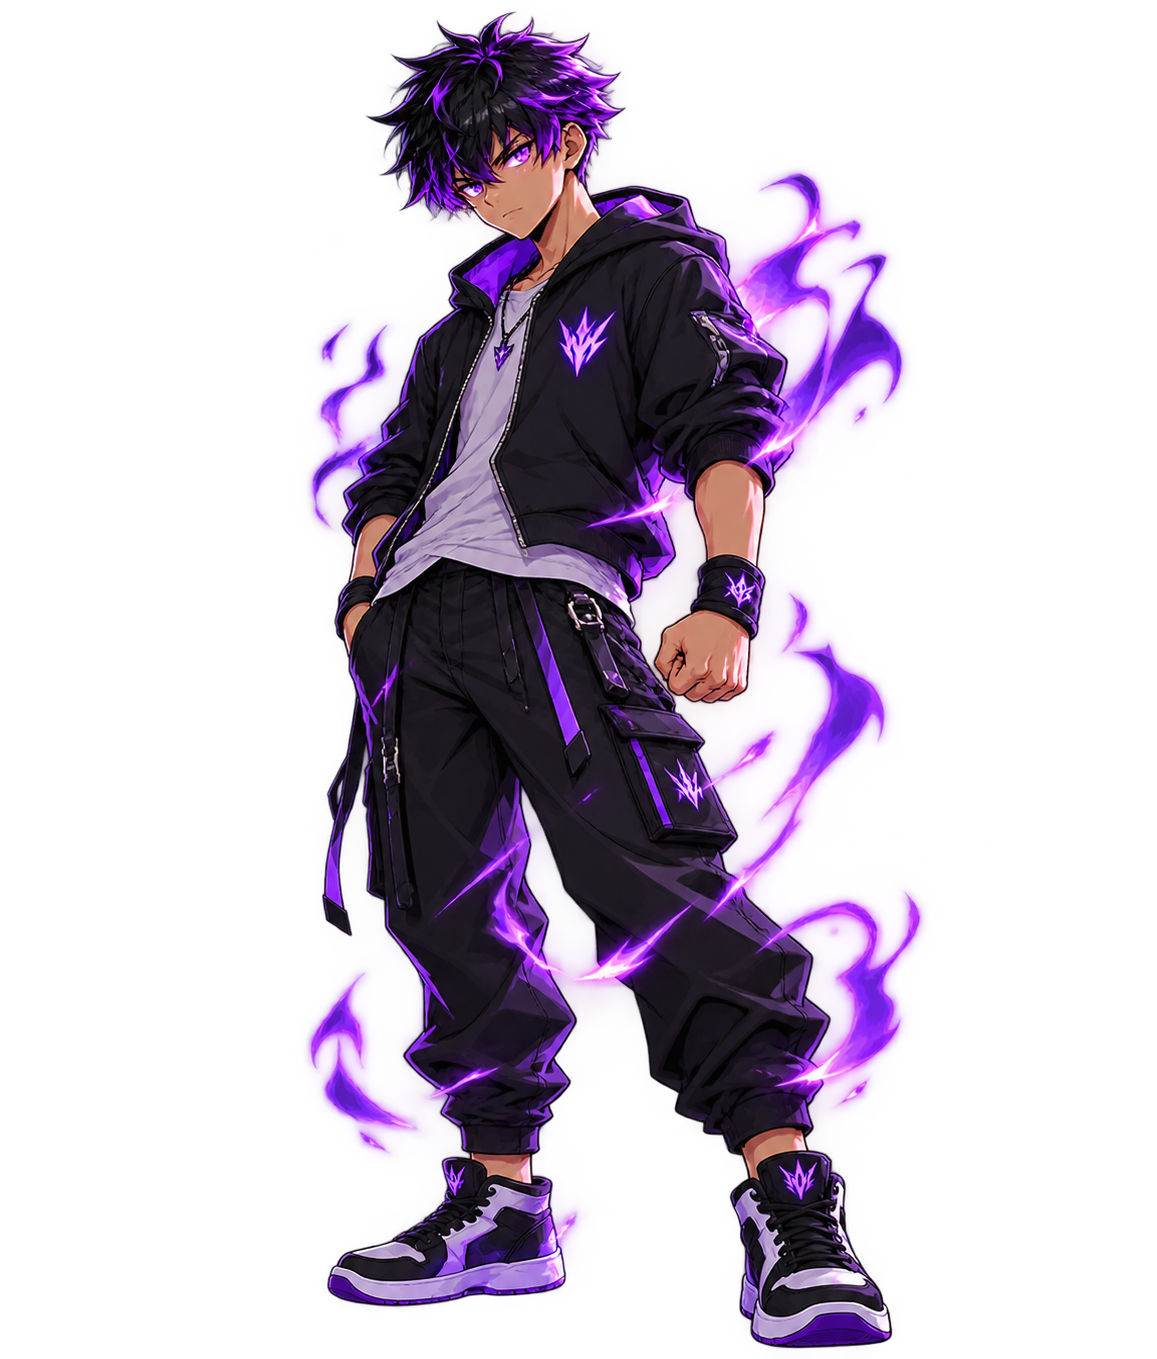
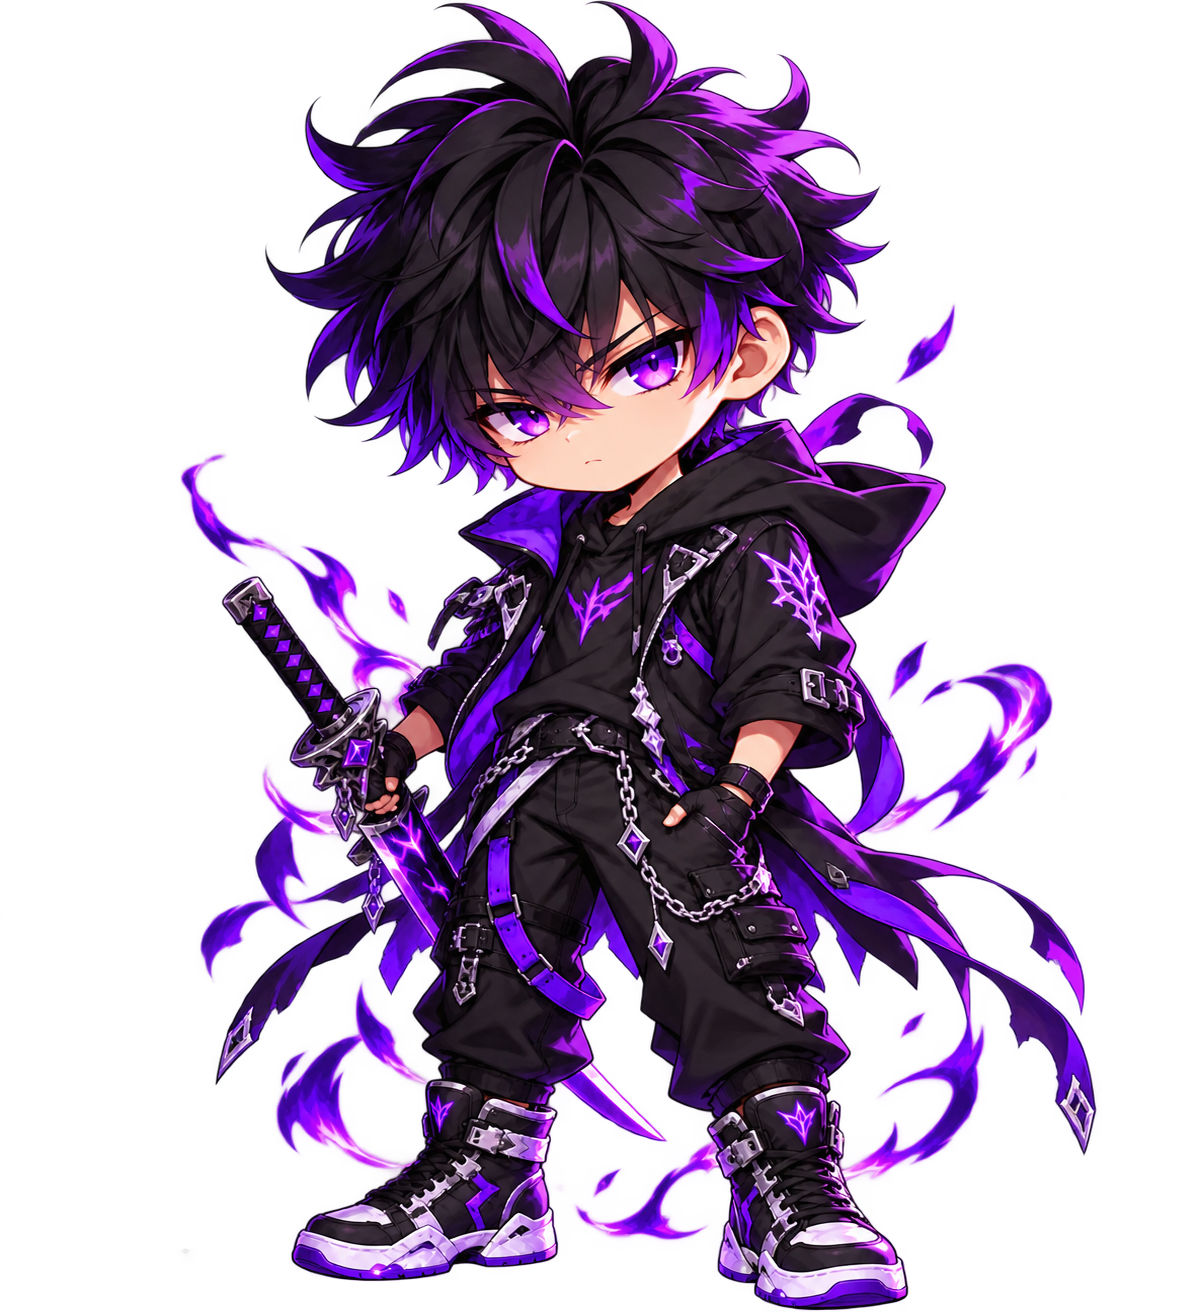
Complete character evolution

diff --git a/src/screens/HomeScreen.js b/src/screens/HomeScreen.js
@@ -1,41 +1,50 @@
 import { Image, Pressable, StyleSheet, Text, View } from "react-native";
+import { SECONDS_PER_LEVEL } from "../constants/progression";
+
+const characterStages = [
+  {
+    minLevel: 0,
+    form: "Rookie",
+    image: require("../../assets/characters/stage1.png"),
+  },
+  {
+    minLevel: 10,
+    form: "Awakened",
+    image: require("../../assets/characters/stage2.png"),
+  },
+  {
+    minLevel: 25,
+    form: "Warrior",
+    image: require("../../assets/characters/stage3.png"),
+  },
+  {
+    minLevel: 50,
+    form: "Elite",
+    image: require("../../assets/characters/stage4.png"),
+  },
+  {
+    minLevel: 75,
+    form: "Ascended",
+    image: require("../../assets/characters/stage5.png"),
+  },
+  {
+    minLevel: 100,
+    form: "Final Form",
+    image: require("../../assets/characters/stage6.png"),
+  },
+];
 
 export default function HomeScreen({ navigation, totalSeconds }) {
-  const secondsPerLevel = 60 * 60;
+  const secondsPerLevel = SECONDS_PER_LEVEL;
   const level = Math.floor(totalSeconds / secondsPerLevel);
 
-  let characterStage = 1;
-  if (level >= 100) {
-    characterStage = 6;
-  } else if (level >= 75) {
-    characterStage = 5;
-  } else if (level >= 50) {
-    characterStage = 4;
-  } else if (level >= 25) {
-    characterStage = 3;
-  } else if (level >= 10) {
-    characterStage = 2;
-  }
+  let currentCharacter = characterStages[0];
 
-  let characterImage;
-  if (characterStage == 1) {
-    characterImage = require("../../assets/characters/stage1.png");
-  } else if (characterStage == 2) {
-    characterImage = require("../../assets/characters/stage2.png");
-  }
-
-  let characterForm = "Rookie";
-  if (characterStage == 6) {
-    characterForm = "Final Form";
-  } else if (characterStage == 5) {
-    characterForm = "Ascended";
-  } else if (characterStage == 4) {
-    characterForm = "Elite";
-  } else if (characterStage == 3) {
-    characterForm = "Warrior";
-  } else if (characterStage) {
-    characterForm = "Awakened";
-  }
+  characterStages.forEach((stage) => {
+    if (level >= stage.minLevel) {
+      currentCharacter = stage;
+    }
+  });
 
   const secondsIntoLevel = totalSeconds % secondsPerLevel;
   const minutesIntoLevel = Math.floor(secondsIntoLevel / 60);
@@ -55,10 +64,12 @@ export default function HomeScreen({ navigation, totalSeconds }) {
       </View>
 
       <View style={styles.characterContainer}>
-        <Image source={characterImage} style={styles.characterImage} />
+        <Image source={currentCharacter.image} style={styles.characterImage} />
 
         <View style={styles.rankBadge}>
-          <Text style={styles.rankText}>{characterForm.toUpperCase()}</Text>
+          <Text style={styles.rankText}>
+            {currentCharacter.form.toUpperCase()}
+          </Text>
         </View>
       </View>
 

diff --git a/src/screens/SessionCompleteScreen.js b/src/screens/SessionCompleteScreen.js
@@ -1,4 +1,5 @@
 import { Pressable, StyleSheet, Text, View } from "react-native";
+import { SECONDS_PER_LEVEL } from "../constants/progression";
 
 export default function SessionCompleteScreen({
   navigation,
@@ -8,13 +9,13 @@ export default function SessionCompleteScreen({
   // Time completed during this session
   const sessionSeconds = route.params?.sessionSeconds || 0;
   const previousTotalSeconds = totalSeconds - sessionSeconds;
-  const previousLevel = Math.floor(previousTotalSeconds / (60 * 60));
+  const previousLevel = Math.floor(previousTotalSeconds / secondsPerLevel);
 
   const sessionMinutes = Math.floor(sessionSeconds / 60);
   const remainingSessionSeconds = sessionSeconds % 60;
 
   // Level calculations
-  const secondsPerLevel = 10;
+  const secondsPerLevel = SECONDS_PER_LEVEL;
 
   const level = Math.floor(totalSeconds / secondsPerLevel);
   const didLevelUp = level > previousLevel;

diff --git a/src/constants/progression.js b/src/constants/progression.js
@@ -1,0 +1,2 @@
+export const SECONDS_PER_LEVEL = 60 * 60;
+export const MAX_LEVEL = 100;
